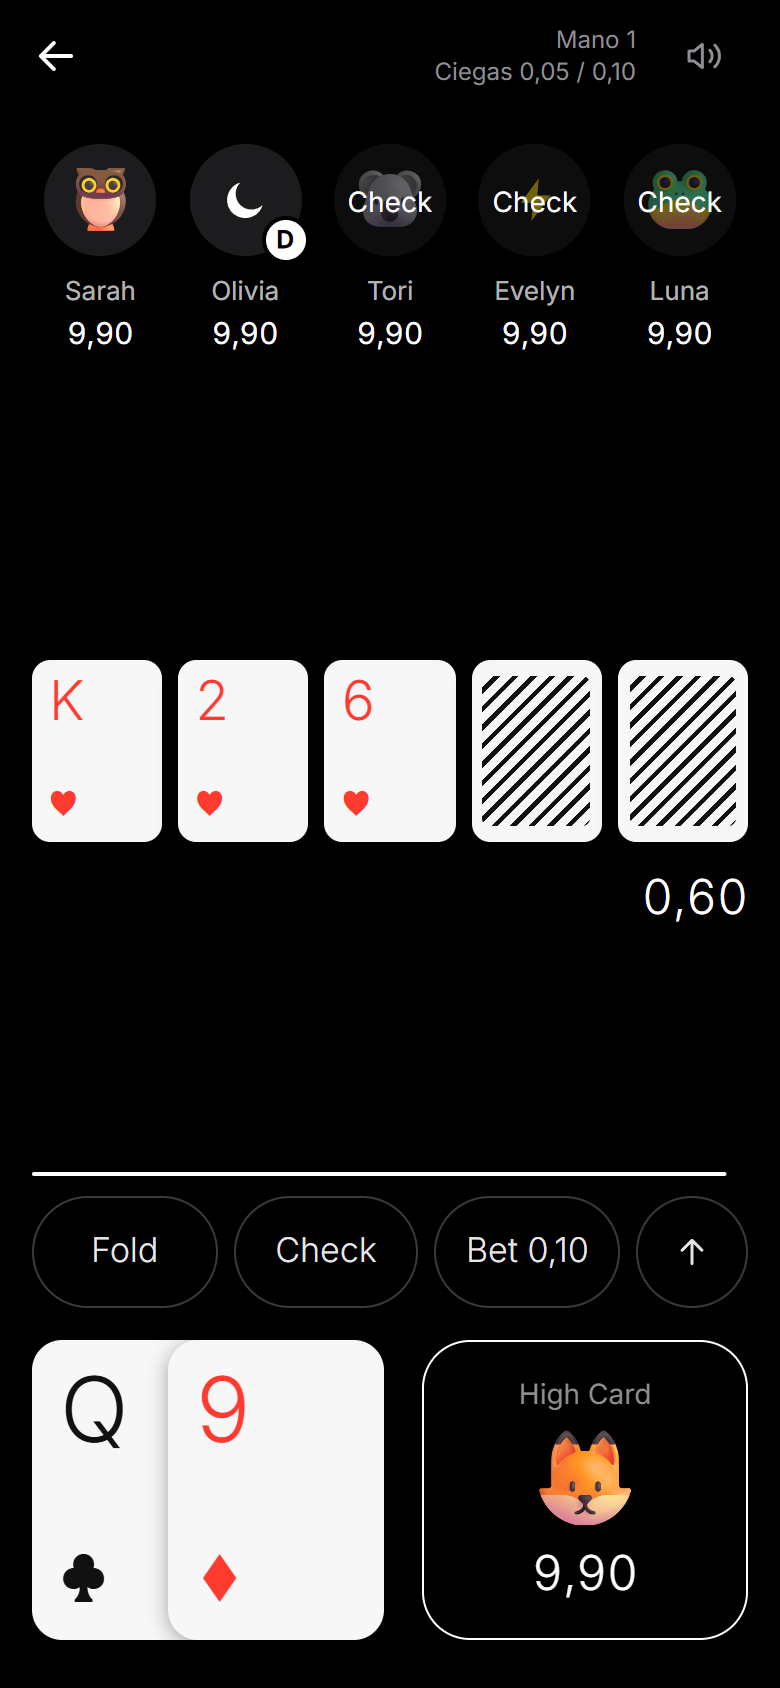
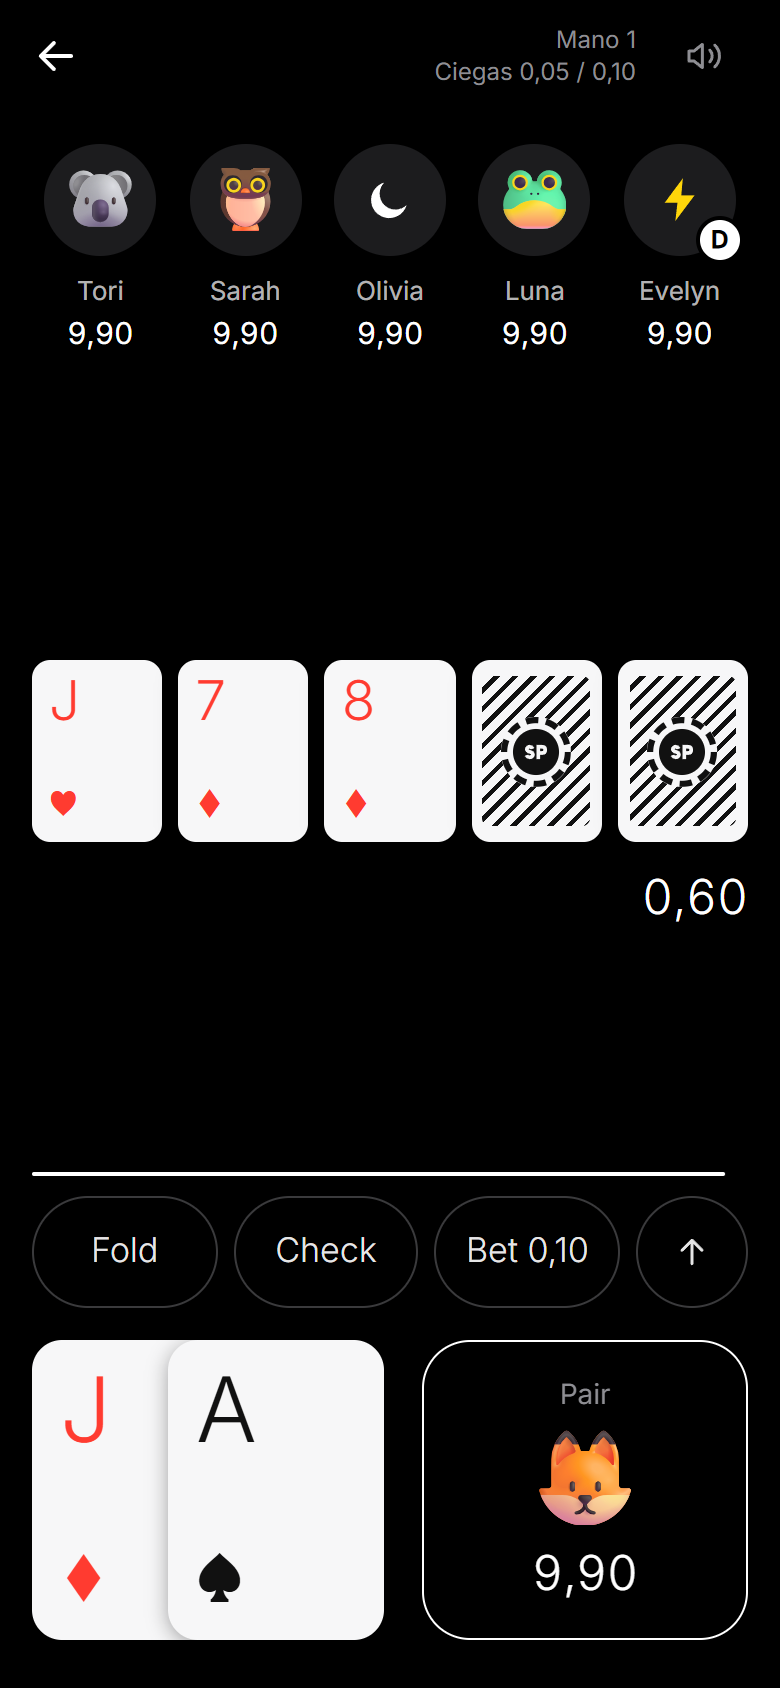
README: capturas actualizadas con la nueva trasera y el inicio en el ordenador

diff --git a/README.en.md b/README.en.md
@@ -53,6 +53,11 @@ The design is deliberately minimal: black background, thin type and nothing that
 
 **Design**
 - Mobile-first, with a horizontal layout on large screens.
+- App icon and card backs feature the "SP" chip.
+
+<div align="center">
+<img src="docs/screenshots/home-desktop.png" alt="Home on desktop: the title on the left and create or join a table on the right" width="100%">
+</div>
 
 <div align="center">
 <img src="docs/screenshots/showdown-desktop.png" alt="Showdown: every player's cards revealed and the pot winner" width="100%">

diff --git a/README.md b/README.md
@@ -51,6 +51,11 @@ El diseño es deliberadamente minimalista: fondo negro, tipografía fina y nada 
 
 **Diseño**
 - Mobile-first, con vista horizontal en pantallas grandes.
+- Icono y trasera de las cartas con la ficha "SP".
+
+<div align="center">
+<img src="docs/screenshots/home-desktop.png" alt="Inicio en el ordenador: el título a la izquierda y crear mesa o unirse a la derecha" width="100%">
+</div>
 - Jerga de póker en inglés para las acciones (*Fold, Check, Call, Raise, All-in*) e interfaz en español.
 
 <div align="center">
